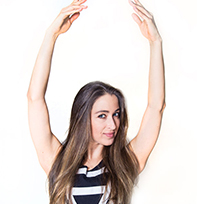
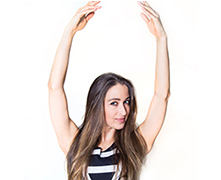
fixed the ratio of image

diff --git a/coursepercategory.html b/coursepercategory.html
@@ -9,7 +9,7 @@
 
     <link rel="icon" href="img/logo.jpg">
     <link rel="stylesheet" href="css/bootstrap.min.css" type="text/css">
-    <link href="css/navbar.css" rel="stylesheet"/>
+    <link href="css/navbar.css" rel="stylesheet" />
     <link rel="stylesheet" href="css/coursepercategory.css" type="text/css">
 
     <script src="js/jquery.js" type="text/javascript"></script>
@@ -20,7 +20,7 @@
 
 <body>
 
-
+    <!--NAVBAR-->
     <nav class="navbar navbar-default navbar-fixed-top">
         <div class="container" id="navcontainer">
             <div class="navbar-header">
@@ -77,7 +77,7 @@
             </div>
         </div>
     </nav>
-    <!--FINE NAVBAR-->
+
     <!--TITOLO-->
     <div class="container top">
         <div class="row">
@@ -114,10 +114,11 @@
                                 <li>
                                     <a href="coursepercategory.html?cat=dance" class="category" id="dance">dance</a>
                                 </li>
-                                
+
                                 <li>
                                     <a href="coursepercategory.html?cat=dance" class="category" id="dance">dance</a>
-                                </li><li>
+                                </li>
+                                <li>
                                     <a href="coursepercategory.html?cat=dance" class="category" id="dance">dance</a>
                                 </li>
                                 <li>

diff --git a/course.html b/course.html
@@ -86,14 +86,14 @@
         </div>
         <!--CONTENUTO CENTRALE-->
         <div class="container">
-            <div class="header-portfolio clearfix">
-                <h2 id="info"></h2>
-            </div>
+            <!--INTESTAZIONE -->
             <div class="row">
+                <!--INTESTAZIONE NOME CORSO LIVELLO CATEGORIA-->
                 <div class="col-md-3 col-xs-3">
                     <h3 id="namecourse"></h3>
                     <a id="categorycourse"></a>
                 </div>
+                <!--BOTTONE ISCRIZIONE AL CORSO-->
                 <div class="col-md-3 col-xs-3">
                     <button id="ourcourse" type="button" class="btn btn-default" aria-label="Center Align" data-toggle="modal" data-target="#myModal">
                         <span class="glyphicon glyphicon glyphicon-plus" aria-hidden="true"></span>ENROLL
@@ -101,7 +101,7 @@
                 </div>
 
             </div>
-            <!-- corpo centrale -->
+            <!-- CORPO CENTRALE -->
             <div class="row">
                 <!-- parte sinistra -->
                 <div id="sx" class="col-md-6">
